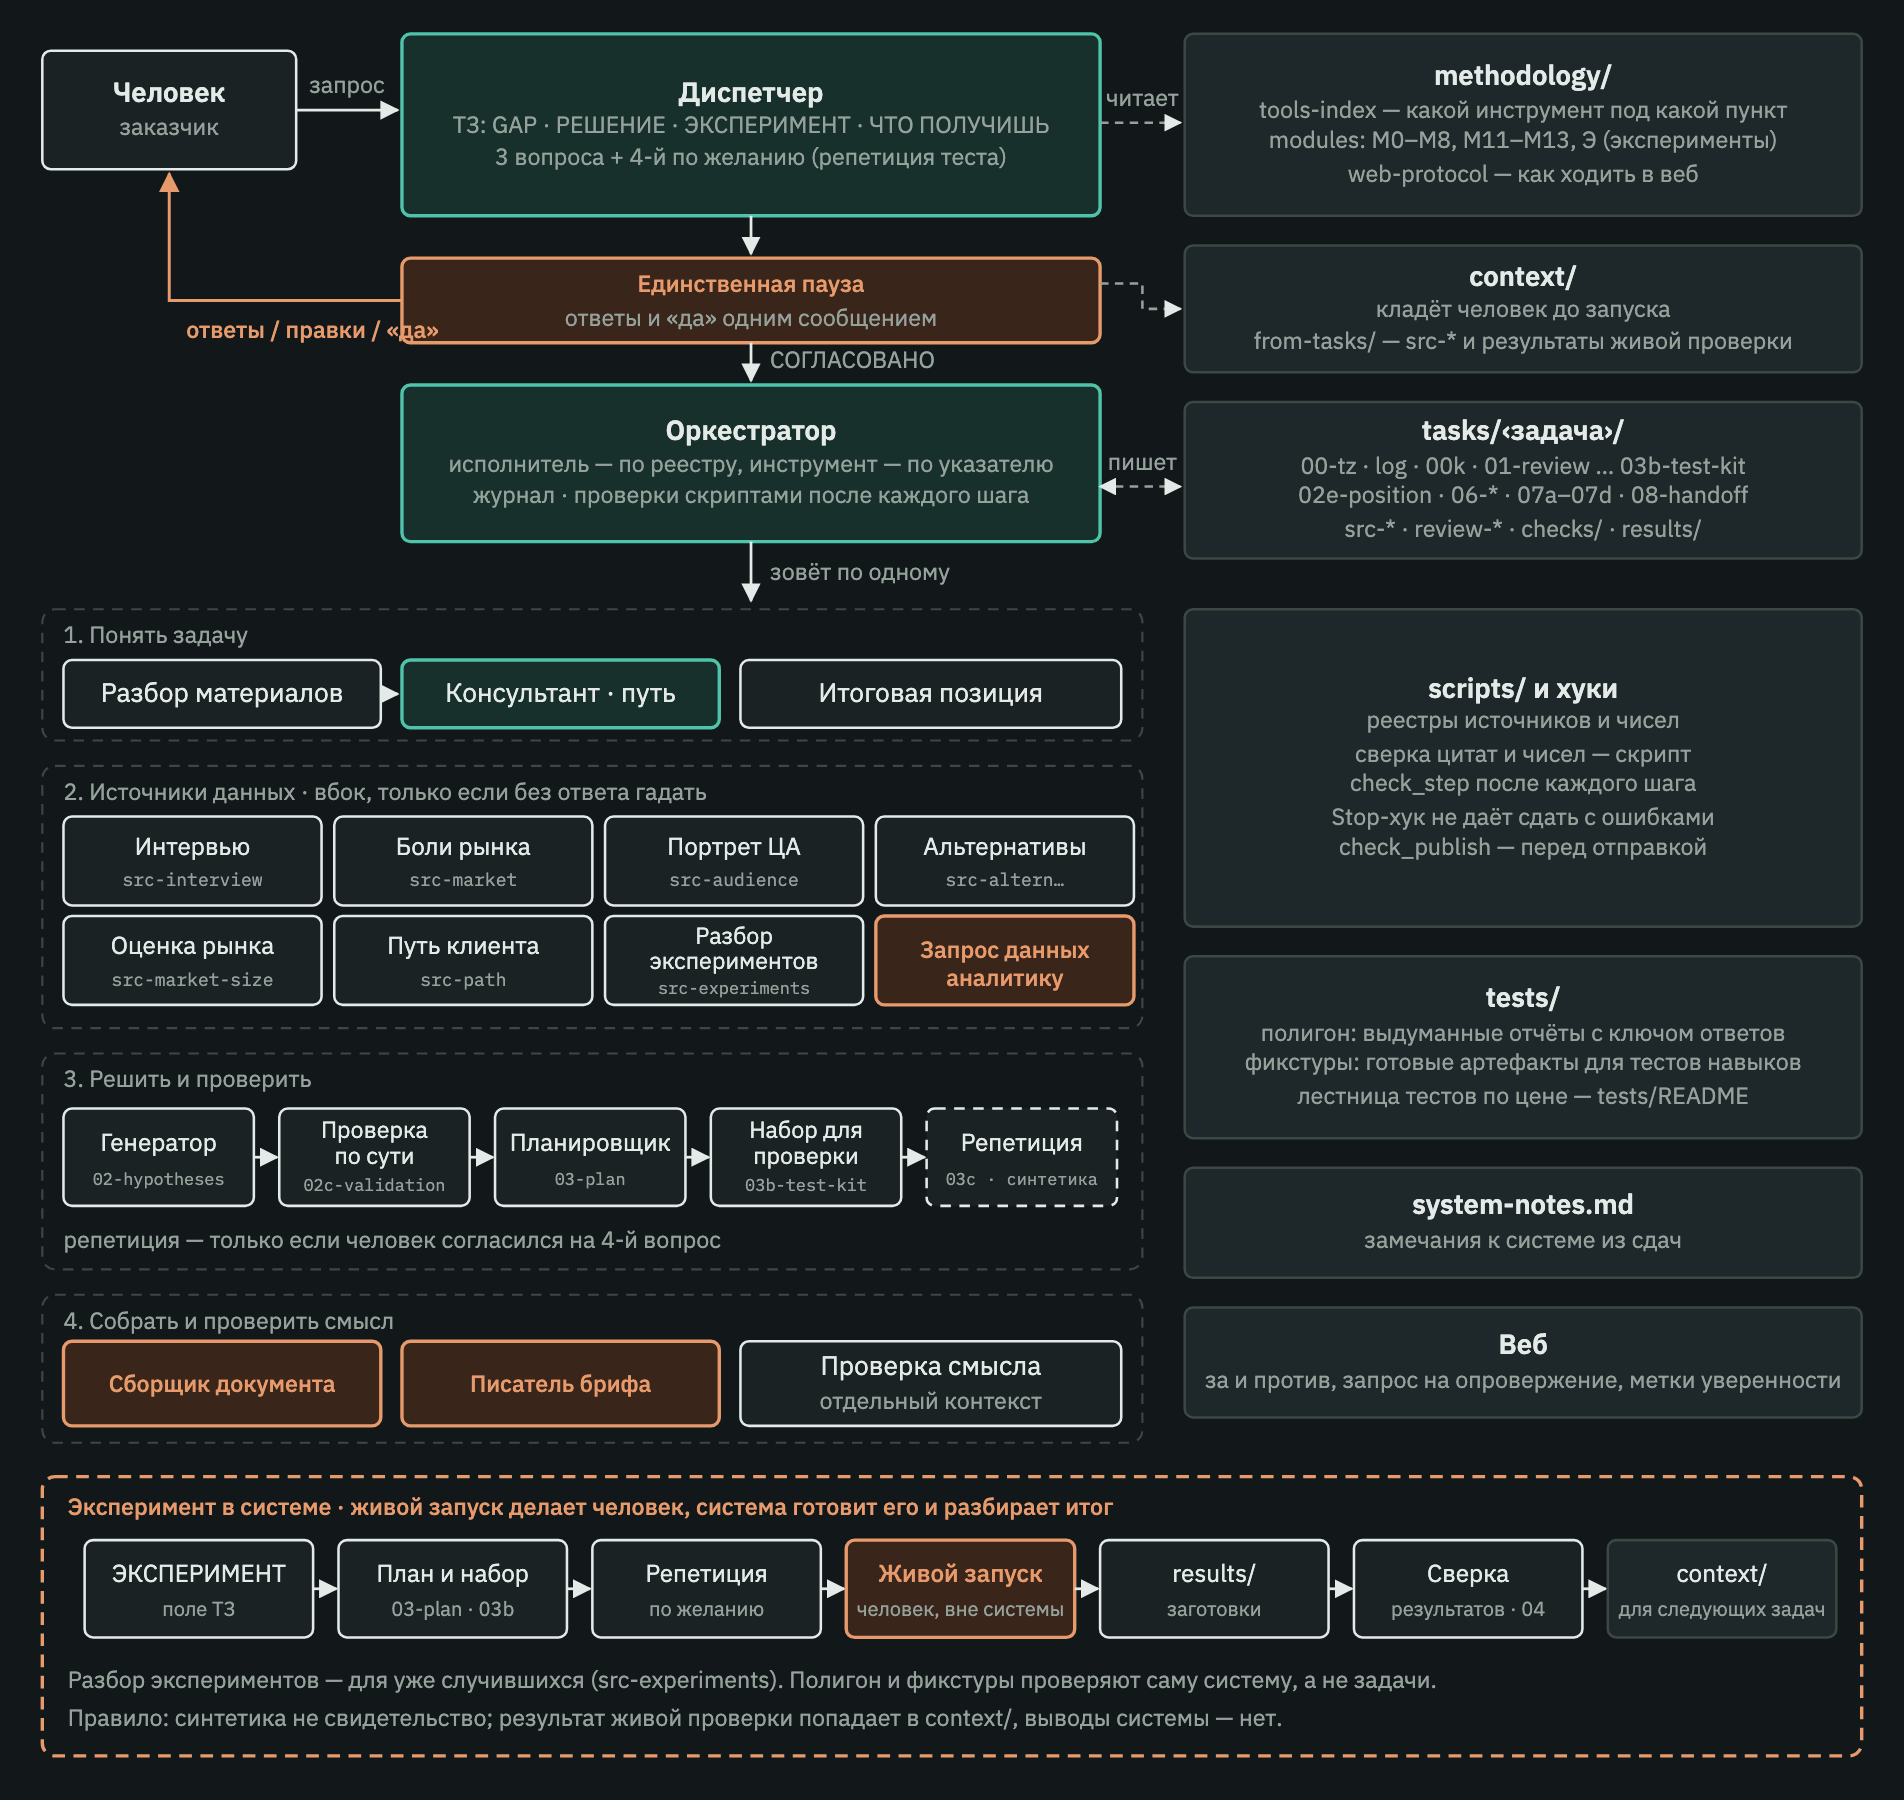
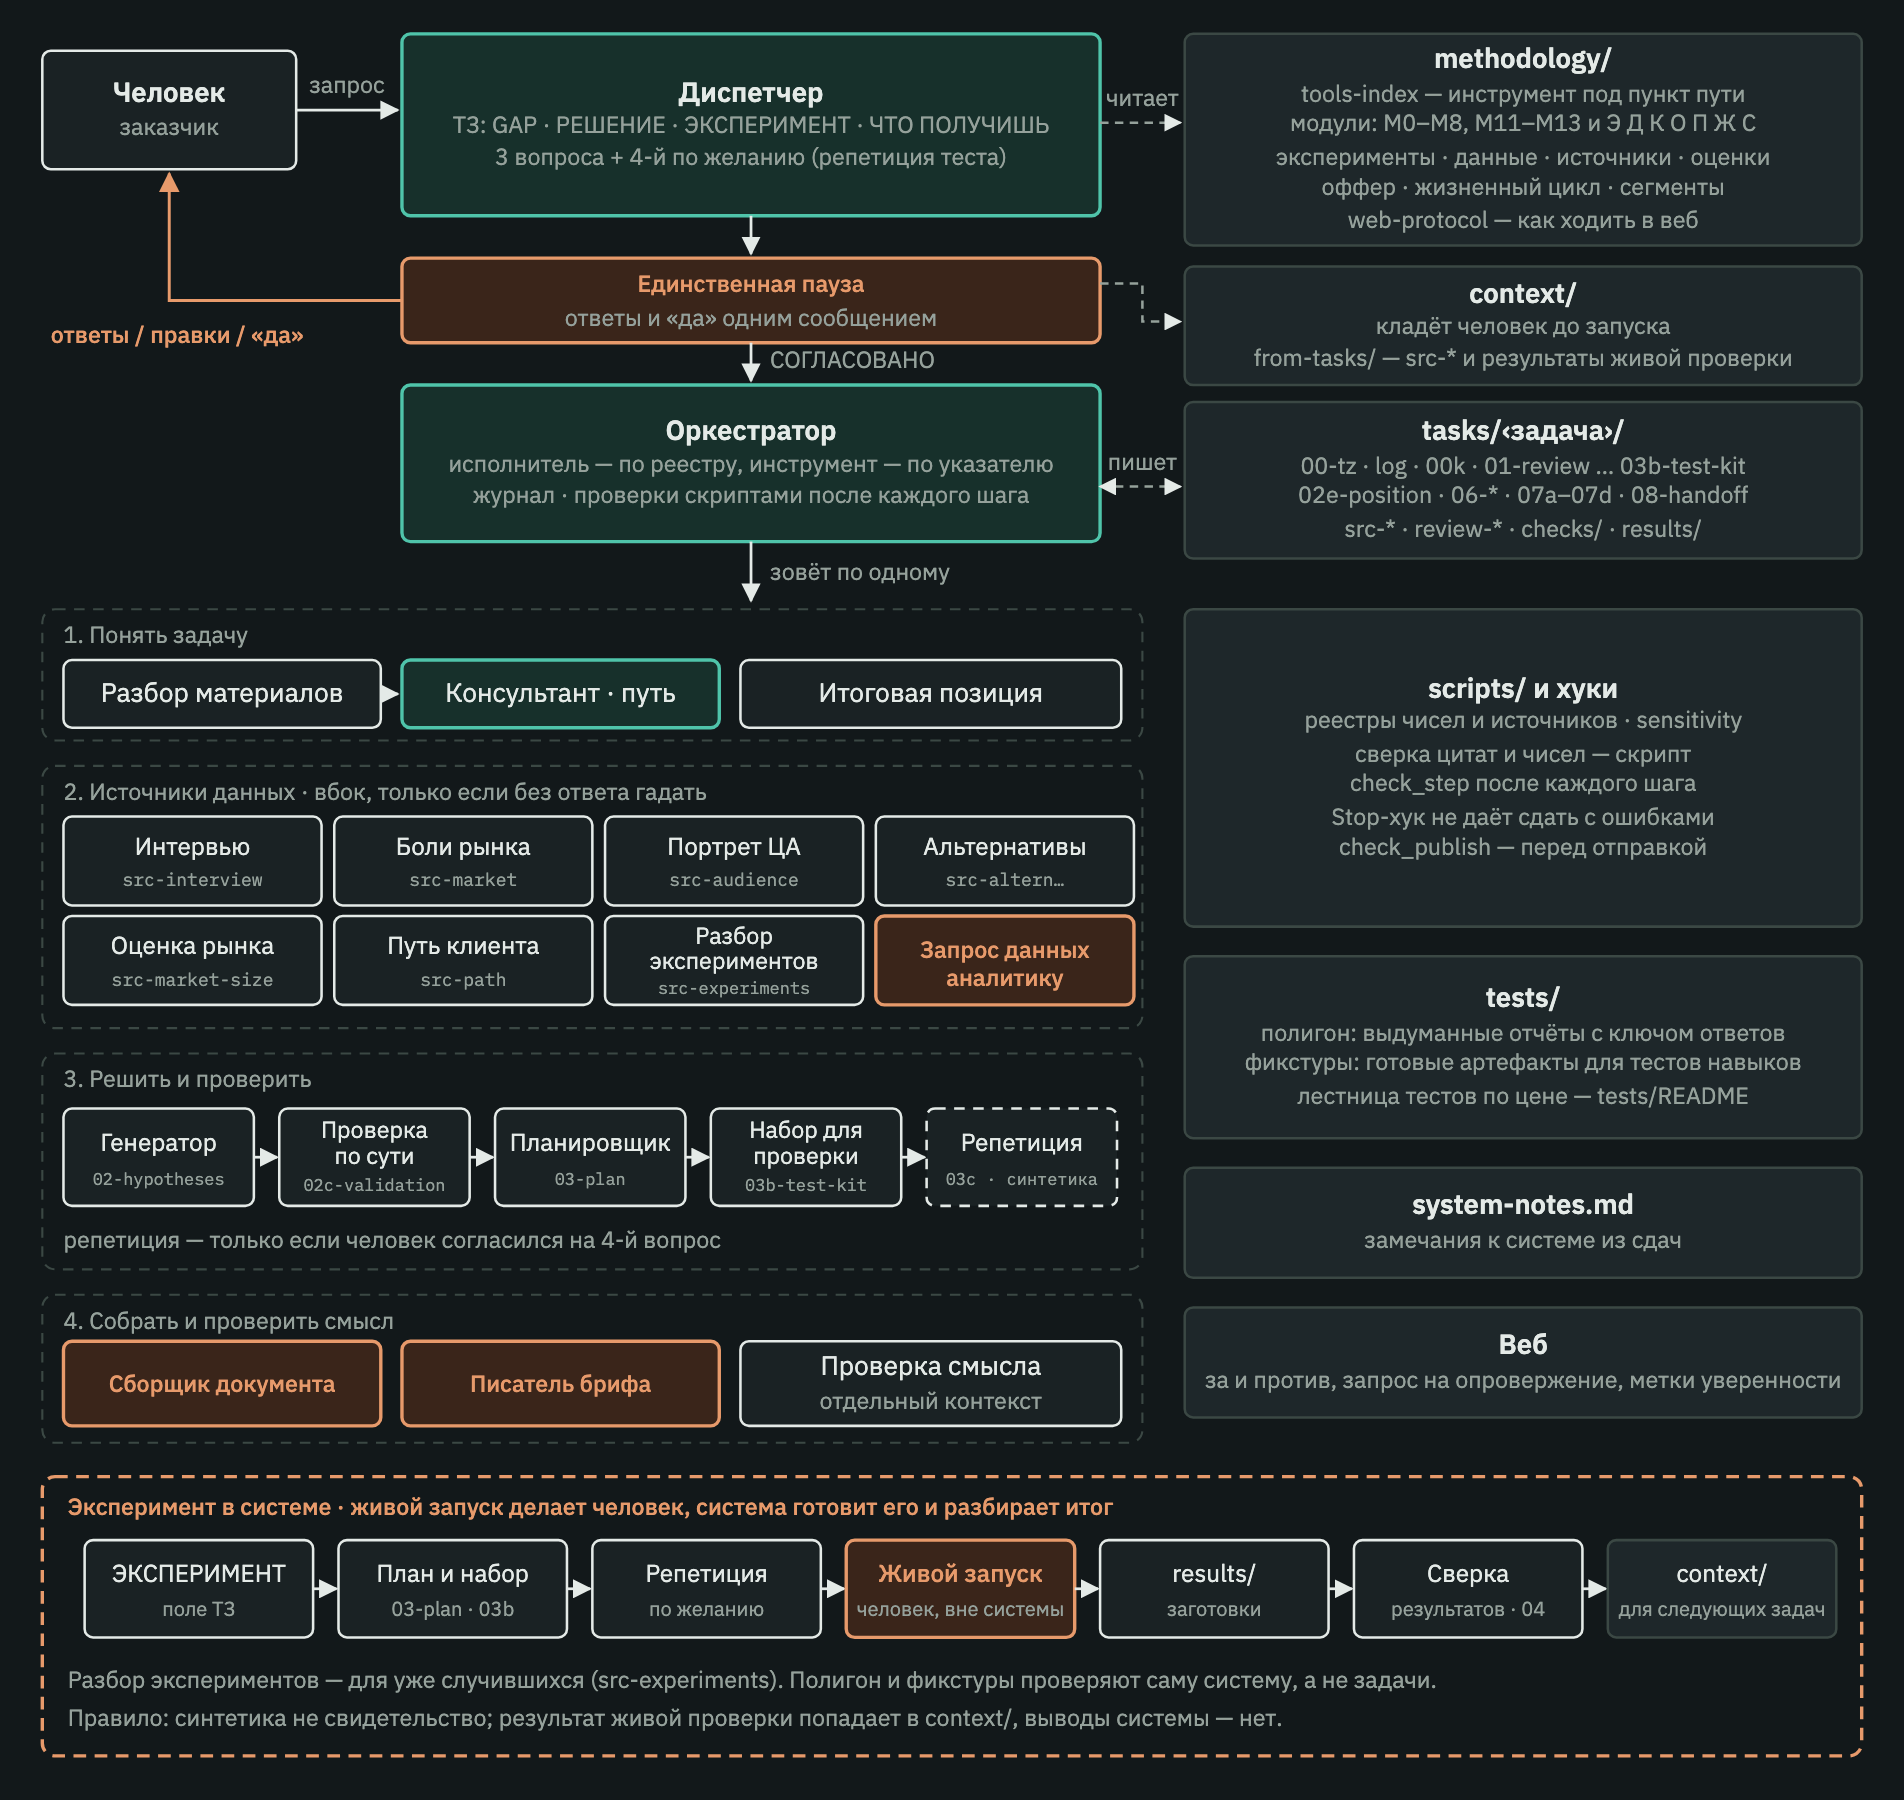
README и схема роли и маршрута обновлены под семь модулей методологии
- README: раздел «Методология» с таблицей модулей, роль оркестратора с выбором инструмента по указателю
- схема: блок methodology с модулями Э Д К О П Ж С, sensitivity в блоке скриптов, исправлено положение подписи

diff --git a/README.md b/README.md
@@ -36,13 +36,31 @@
 - `docs/` — схемы системы (три PNG).
 - `system-notes.md` — журнал замечаний к системе.
 
+## Методология
+
+Методология — модули в `methodology/modules/` и указатель `methodology/tools-index.md`: по типу пункта пути он говорит, какой инструмент брать и какому исполнителю его передать. Исполнитель читает только указанный раздел, а не модуль целиком.
+
+| Модуль | О чём |
+| --- | --- |
+| M0–M8 | клиент и его задача, интервью и четыре силы, путь клиента и точка слома, несвершившиеся сделки и конкуренты, позиционирование, сообщения, проверка формулировок и цены, каналы |
+| M11–M13 | дерево целей и обратный счёт, запуск и тиринг, рост |
+| Э | эксперименты: нужен ли тест, план до запуска, чувствительность, порядок проверок, исходы, множественность |
+| Д | запрос данных: шаблон с метрикой, зерном и сверкой, паспорт выгрузки |
+| К | критическое чтение источников: паспорт источника, красные флаги статистики, отчёты вендоров |
+| О | оценки и чувствительность: оценки Ферми, диапазоны, порядок влияния параметров (`scripts/sensitivity.py`) |
+| П | оффер и промо: карточка оффера, инкрементальность, окупаемость акции |
+| Ж | жизненный цикл и коммуникации: этапы, активация, удержание, триггерные цепочки |
+| С | сегментация и границы категории: сегмент по задаче, слои B2B, проверка сегмента |
+
+Разделы без источника в модулях помечены «синтез, проверять на данных»: система не выдаёт их за проверенное знание.
+
 ## Кто что делает
 
 | Роль | Задача |
 | --- | --- |
 | Диспетчер | Превращает запрос в ТЗ: что ты хочешь получить, чего не хватает, какой результат будет на выходе. Задаёт три вопроса о том, что важнее всего уточнить (и четвёртый, необязательный: прогнать ли репетицию теста на синтетических респондентах — дольше и дороже). Исполнителей не выбирает |
 | Человек | Отвечает на вопросы диспетчера (три, а при необходимости четвёртый) и согласует ТЗ — одним сообщением. Это единственная пауза в системе |
-| Оркестратор | Строит маршрут: каким методом закрыть каждый пункт пути консультанта, в каком порядке, когда остановиться. После каждого шага пересматривает и ведёт лог |
+| Оркестратор | Строит маршрут: какого исполнителя звать на каждый пункт пути консультанта, в каком порядке, когда остановиться. Для шага-источника записывает инструмент методологии из указателя (`tools-index.md`). После каждого шага пересматривает, запускает проверки и ведёт лог |
 | Исполнители | Разбор материалов (что уже известно из контекста, по каждому вопросу ТЗ), консультант (первый разбор и путь от AS-IS к TO-BE — что должно стать известно; разбор идеи на утверждения; итоговая позиция), генератор гипотез, проверка по сути, планировщик, набор для проверки, восемь источников данных (в том числе разбор экспериментов), проверка смысла, сборщик итогового документа (исследование или валидация), писатель брифа, синтетика, сверка результатов |
 
 К источникам данных оркестратор ходит по выбору: только когда без ответа гипотезы или вердикт будут догадкой. Если ответ лежит внутри компании — воронка, выгрузка, итоги прошлой кампании, — система не ищет его в сети: оркестратор пишет запрос аналитику и кладёт его в итоговую сводку отдельным блоком.
